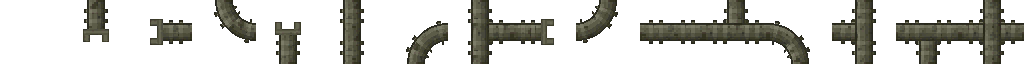
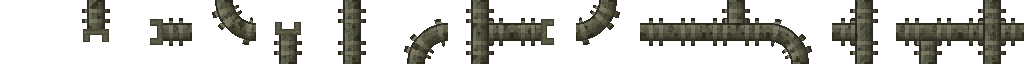
feat(terrain): strengthen pipe rivet bands and rust wear on Floor 2 linework
Rivet rings read as texture rather than hardware at play scale because the
64px atlas cell is stamped at 0.5, so a 3px shoulder survived as ~2 screen
px. Widen the ring (tieHalfLength 12->14, tieHalfWidth 1.8->2.4), brighten
the raised collar (COLLAR_GAIN 1.22->1.45), and deepen the corrosion
overlay (WEAR_CUT 118->132, WEAR_FLOOR 0.5->0.36).

Constants only; no geometry contract change. Regenerated stubs are
byte-identical (track 18/28, pipe 23/18) so the edge-Wang join guarantee
is untouched, and all 32 linework guard tests still pass.

diff --git a/scripts/sprites/terrain-packs/import-floor2-linework.ts b/scripts/sprites/terrain-packs/import-floor2-linework.ts
@@ -261,7 +261,7 @@ function stopGain(stops: readonly { t: number; gain: number }[], shade: number):
 }
 
 /** A raised rivet band catches more light than the tube it wraps. */
-const COLLAR_GAIN = 1.22;
+const COLLAR_GAIN = 1.45;
 
 function memberGain(cls: number, shade: number, round: boolean): number {
   if (cls === LINEWORK_PIXEL.Rail) {
@@ -360,8 +360,8 @@ function isRim(cls: Uint8Array, size: number, x: number, y: number): boolean {
  * how black a streak can get — beyond about 0.6 the pipe stops reading as a
  * cylinder because the damage starts competing with the shading bands.
  */
-const WEAR_CUT = 118;
-const WEAR_FLOOR = 0.5;
+const WEAR_CUT = 132;
+const WEAR_FLOOR = 0.36;
 
 /** Multiplicative darkening from the wear material at this pixel. */
 function wearGain(wear: RgbaImage | undefined, frame: number, x: number, y: number): number {

diff --git a/scripts/sprites/terrain-packs/gen/linework-geometry.ts b/scripts/sprites/terrain-packs/gen/linework-geometry.ts
@@ -260,8 +260,11 @@ export const TRACK_PROFILE: LineworkProfile = {
 export const PIPE_PROFILE: LineworkProfile = {
   railOffset: 0,
   railHalfWidth: 9,
-  tieHalfLength: 12,
-  tieHalfWidth: 1.8,
+  // The ring must clear the bore by enough pixels to survive the 0.5 atlas
+  // downscale — at `tieHalfLength: 12` the shoulders protruded 3 atlas px, which
+  // is ~2 screen px and reads as texture rather than hardware.
+  tieHalfLength: 14,
+  tieHalfWidth: 2.4,
   tiePeriod: 32,
   tiePhase: 16,
   // Rings sit at arc-length 11/21 and 43/53 of a 64-long straight — four bands
